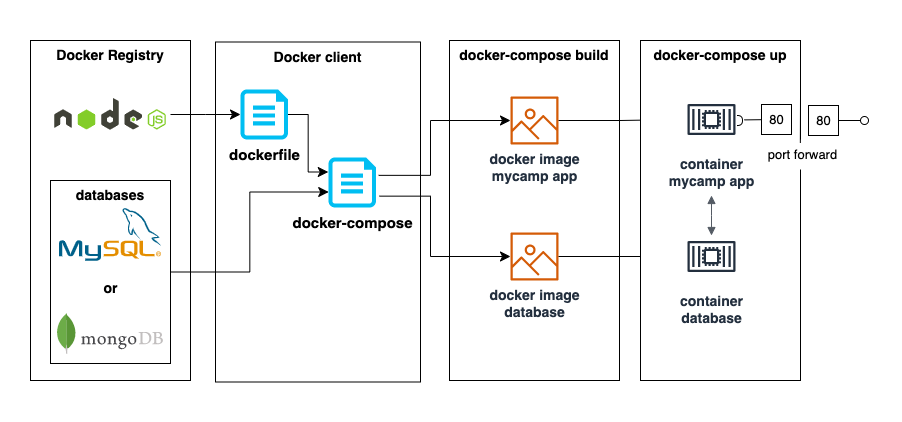
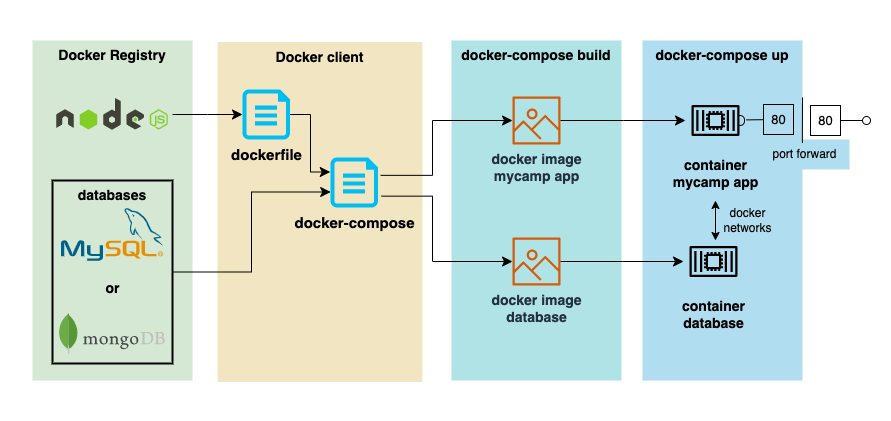
update docs and diagram

diff --git a/docs/features.md b/docs/features.md
@@ -3,14 +3,15 @@ This demo "MyCamp" is derived from the project "YelpCamp"†. In addition to the
 2. Migrate database from NoSQL(MongoDB) to SQL(MySQL)
 3. Utilize docker compose to containerize the DB and the web server
 4. Host the web server by AWS ECS Fargate with the database by AWS RDS(MySQL)
+
 For further details, refer to the files in the docs folder:
-- AWS_diagram.png: the structure of website hosted on AWS with Elastic Container Service(ECS)
-- RDS-schema-creation-diagram.png: the structure of creating tables on private RDS MySQL DB instace
-- docker-diagram.png: the structure of website hosted on localhost with app container and database container(MySQL or MongoDB)
+- ![AWS_diagram.png](AWS-diagram.png)
+the structure of website hosted on AWS with Elastic Container Service(ECS)
+- ![RDS-schema-creation-diagram.png](RDS-schema-creation-diagram.png)
+the structure of creating tables on private RDS MySQL DB instace
+- ![docker-diagram.png](docker-diagram.png)
+the structure of website hosted on localhost with app container and database container(MySQL or MongoDB)
 - create-tables-to-RDS.md: procedure to create SQL schema with AWS RDS MySQL instance not exposed to Internet
 - project-progress-log.md: the detailed progress log of this project
-
-- aws-ecs-setup-steps.md: step by step procedure to set up website on AWS ECS Fargate
-
 
 † "YelpCamp" is the project in the course "The Web Developer Bootcamp 2023" by Colt Steele at Udemy. YelpCamp Github link: https://github.com/Colt/YelpCamp.git

diff --git a/README.md b/README.md
@@ -1,6 +1,6 @@
-My Camp
-- a website to view, create, revise, and comment on campgrounds
-
+# My Camp
+*a website to view, create, revise, and comment on campgrounds*
+## Features
 - view campgrounds with photoes, locations, description, and prices[demo shorts]
 - register an user to creating and edit your own campground [demo shorts]
 - login to make a comment and rating on other campgrounds [demo shorts]
@@ -8,7 +8,8 @@ My Camp
 - images storage on cloud by Cloudinery API
 
 - host locally by 2 docker containers:
+  ![docker diagram](docs/docker-diagram.png)
   1. webserver: mycamp app based on NodeJS image
-  2. database: SQL(MySQL) or NoSQL(MongoDB) image[docker-diagram.png]
-- host on cloud by AWS ECS Fargate with AWS RDS(MySQL) [AWS-diagram.png]
-
+  2. database: SQL(MySQL) or NoSQL(MongoDB) image
+- host on cloud by AWS ECS Fargate with AWS RDS(MySQL)
+  ![AWS diagram](docs/AWS-diagram.png)
